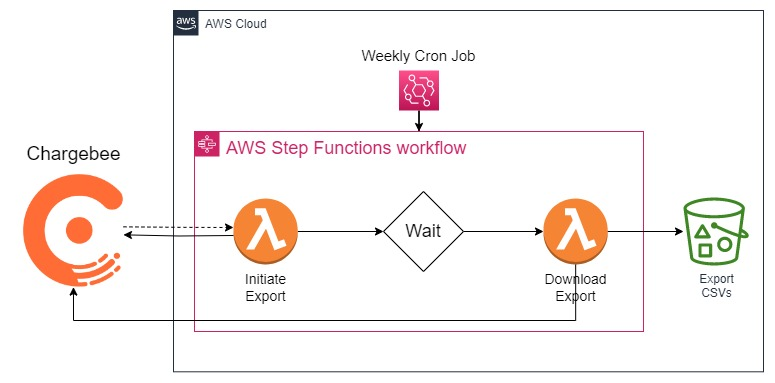
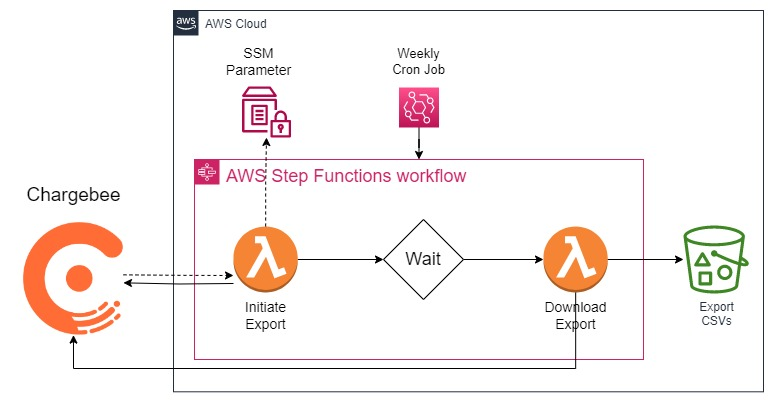
Updated architect to include SSM

diff --git a/README.md b/README.md
@@ -13,7 +13,8 @@ This guide will walk you through one option for how you can build your own integ
 ## Pre-Requisites
 - A free [AWS account](https://aws.amazon.com/free/)
 - A free [Chargebee](https://www.chargebee.com/) account
-- Chargebee API Key
+- [Chargebee API Key](https://www.chargebee.com/docs/2.0/api_keys.html)
+  - It is recommended to follow the best practices of least privileges when assigning access to your API key.
 - Programming Fundamentals
 
 >:bulb: It is highly recommended that the steps followed in this guide are done in your Test environment in Chargebee and a development account in AWS.
@@ -22,7 +23,7 @@ This guide will walk you through one option for how you can build your own integ
 
 ![architecture](img/architecture.jpg)
 
-The architecture for this guide is very straightforward. [AWS Lambda](https://aws.amazon.com/lambda/) will initiate an export API call to the Chargebee API. A secondary Lambda will download those files once they are ready.  All of your exported Chargebee files will be stored in [Amazon S3](https://aws.amazon.com/s3/). [AWS Step Functions](https://aws.amazon.com/step-functions/) will orchestrate the entire workflow, and an optional [Amazon EventBridge Scheduler](https://docs.aws.amazon.com/eventbridge/latest/userguide/scheduler.html) will trigger the workflow on a scheduled basis.
+The architecture for this guide is very straightforward. [AWS Lambda](https://aws.amazon.com/lambda/) will initiate an export API call to the Chargebee API. A secondary Lambda will download those files once they are ready. All of your exported Chargebee files will be stored in [Amazon S3](https://aws.amazon.com/s3/). [AWS Step Functions](https://aws.amazon.com/step-functions/) will orchestrate the entire workflow, and your Chargebee API key will be stored and securely referenced from [AWS Systems Manager Parameter Store](https://docs.aws.amazon.com/systems-manager/latest/userguide/systems-manager-parameter-store.html). An optional [Amazon EventBridge Scheduler](https://docs.aws.amazon.com/eventbridge/latest/userguide/scheduler.html) can trigger the workflow on a scheduled basis.
 
 ## Implementation Instructions
 
@@ -30,7 +31,13 @@ The architecture for this guide is very straightforward. [AWS Lambda](https://aw
 You may already have sample data to work with in your Chargebee environment, and you are welcome to use that for this tutorial. If you do not have sample data, feel free to use the sample data provided in the `chargebee-sample-customer-data.csv` file that is included in this repository. Follow the steps found in Chargebee's [Bulk Operations documentation](https://www.chargebee.com/docs/2.0/bulk-operations.html) to pre-load this data before continuing on.
 
 
-### Step 1: Chargebee Configuration
+### Step 1: Create
+
+
+
+
+
+### Step #: Add a Lambda Function to initiate the Export
 In this guide, we will be making use of the [Chargebee API](https://apidocs.chargebee.com/docs/api?prod_cat_ver=2). The Chargebee API supports a number of programming languages. You'll want to make sure you select both the Product Catalog version that is relevant to the version of Chargebee you are using as well as your supported programming language of choice to make sure you are seeing the correct documentation for your environment. 
 
 ![architecture](img/chargebee-api-docs.png)
